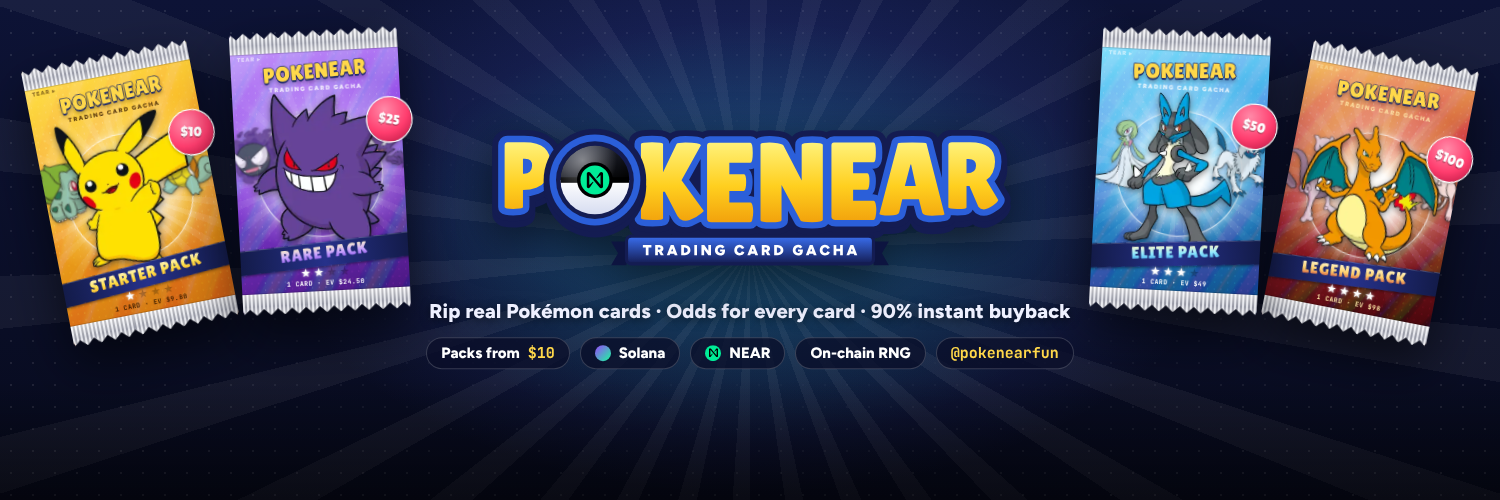
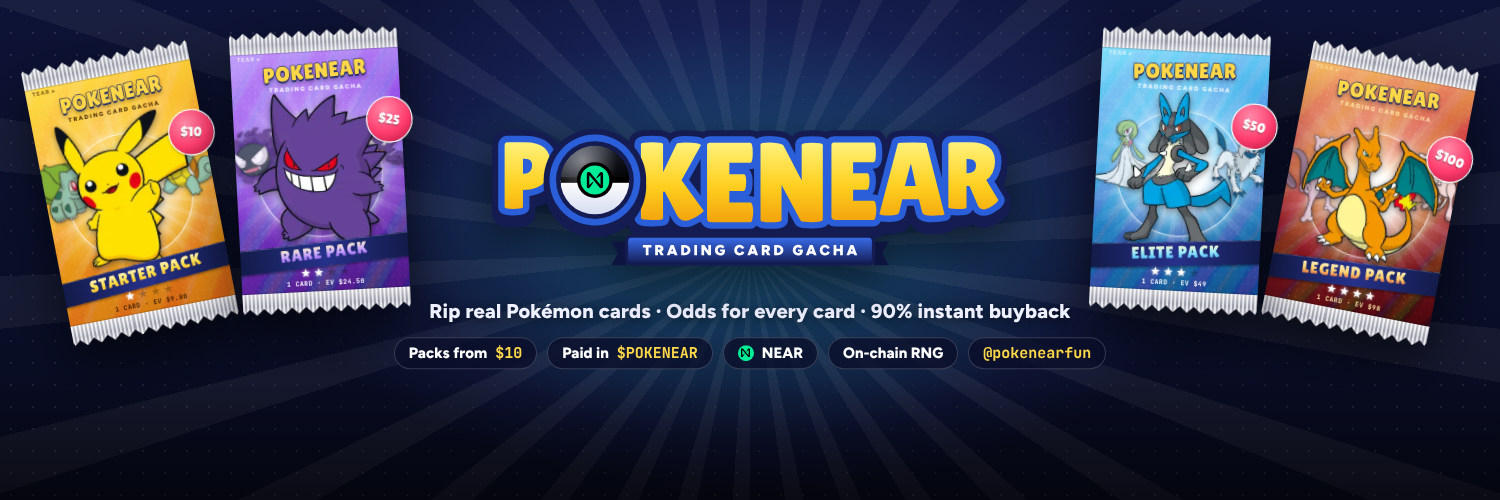
Add X post image; X header shows NEAR and $POKENEAR instead of Solana
Claude-Session: https://claude.ai/code/session_01CKizwNUuLhvCqaYYh9hKp6

Changed region(s): [[0.276, 0.66, 0.736, 0.75]]

diff --git a/assets/brand/x-post.html b/assets/brand/x-post.html
@@ -1,0 +1,85 @@
+<!doctype html>
+<html lang="en">
+<head>
+<meta charset="utf-8">
+<title>Pokenear X post</title>
+<!-- Source for x-post.png (1600x900, 16:9 so X shows it uncropped). Render with: npm run build:x-post -->
+<link rel="stylesheet" href="https://fonts.googleapis.com/css2?family=Figtree:wght@700;800;900&family=JetBrains+Mono:wght@700&family=Lilita+One&display=swap">
+<link rel="stylesheet" href="../../css/style.css">
+<style>
+  html, body { margin: 0; background: #070a1c; }
+  .post { position: relative; width: 1600px; height: 900px; overflow: hidden;
+    background:
+      radial-gradient(600px 420px at 74% 52%, rgba(0, 236, 151, 0.18), transparent 70%),
+      radial-gradient(900px 600px at 70% 45%, rgba(80, 110, 255, 0.38), transparent 70%),
+      linear-gradient(160deg, #0f1640, #070a1c 70%);
+  }
+  .rays { position: absolute; inset: -40%; left: 10%; background: repeating-conic-gradient(from 0deg at 64% 50%, rgba(255, 255, 255, 0.045) 0 4deg, transparent 4deg 12deg); }
+  .dots { position: absolute; inset: 0; background: radial-gradient(rgba(255, 255, 255, 0.09) 1px, transparent 1.3px) 0 0 / 24px 24px; -webkit-mask-image: linear-gradient(90deg, #000, transparent 60%); mask-image: linear-gradient(90deg, #000, transparent 60%); }
+  .copy { position: absolute; left: 90px; top: 0; bottom: 0; width: 720px; display: flex; flex-direction: column; justify-content: center; gap: 30px; z-index: 3; }
+  .copy .logo { width: 520px; margin-left: -10px; filter: drop-shadow(0 12px 20px rgba(0, 0, 0, 0.5)); }
+  h1 { margin: 0; font: 400 74px/1.02 'Lilita One', 'Arial Black', sans-serif; color: #fff; letter-spacing: 0.005em; text-shadow: 0 5px 0 rgba(0, 0, 0, 0.35); }
+  h1 em { font-style: normal; color: #ffd84a; }
+  ul { list-style: none; margin: 0; padding: 0; display: grid; gap: 14px; }
+  li { display: flex; align-items: center; gap: 14px; font: 800 27px/1.2 Figtree, sans-serif; color: #eef0ff; }
+  li i { flex: none; width: 34px; height: 34px; border-radius: 50%; display: grid; place-items: center; background: #ffd84a; color: #1a1300; font: 900 19px/1 Figtree, sans-serif; font-style: normal; }
+  .socials { display: flex; gap: 12px; align-items: center; }
+  .chip { display: inline-flex; align-items: center; gap: 10px; padding: 11px 20px; border-radius: 999px; background: rgba(10, 14, 40, 0.8); border: 1px solid rgba(255, 255, 255, 0.2); font: 800 22px/1 Figtree, sans-serif; color: #fff; }
+  .chip b { color: #ffd84a; font-family: 'JetBrains Mono', monospace; }
+  .chip .chain-dot { width: 22px; height: 22px; margin: 0; }
+  .showcase { position: absolute; right: 40px; top: 0; bottom: 0; width: 760px; } /* no z-index: a stacking context here would isolate the packs color-dodge foil and wash it out */
+  .pack { position: absolute; width: 230px; }
+  .pack .booster { filter: drop-shadow(0 26px 30px rgba(0, 0, 0, 0.6)); }
+  .pack .bw-sheen { display: none; } /* the moving sheen would freeze mid-sweep in a still image */
+  .pk1 { left: 40px; top: 110px; transform: rotate(-12deg); }
+  .pk2 { right: 40px; top: 110px; transform: rotate(12deg); }
+  /* Same fan as the site's landing page, scaled up. */
+  .hand { position: absolute; left: 50%; top: 54%; width: 460px; transform: translate(-50%, -50%) scale(1.32); }
+  .badge { position: absolute; right: 70px; bottom: 70px; z-index: 4; transform: rotate(-6deg); padding: 16px 26px; border-radius: 18px; background: linear-gradient(135deg, #ff4f7b, #c41d5a); color: #fff; font: 400 36px/1 'Lilita One', sans-serif; box-shadow: 0 14px 26px rgba(0, 0, 0, 0.5), inset 0 -4px 0 rgba(0, 0, 0, 0.2); }
+  .badge small { display: block; font: 800 16px/1.3 Figtree, sans-serif; letter-spacing: 0.08em; text-transform: uppercase; opacity: 0.9; }
+</style>
+</head>
+<body>
+<div class="post" id="post">
+  <div class="rays"></div><div class="dots"></div>
+  <div class="copy">
+    <img class="logo" src="pokenear-logo.svg" alt="Pokenear">
+    <h1>Rip real Pokémon cards <em>on NEAR</em></h1>
+    <ul>
+      <li><i>1</i>Packs from $10, paid in $POKENEAR</li>
+      <li><i>2</i>Exact odds for every card</li>
+      <li><i>3</i>On-chain randomness you can verify</li>
+      <li><i>4</i>Sell any pull back for 90%</li>
+    </ul>
+    <div class="socials">
+      <span class="chip"><span class="chain-dot near"></span>NEAR</span>
+      <span class="chip"><b>@pokenearfun</b></span>
+    </div>
+  </div>
+  <div class="showcase">
+    <div class="pack pk1" data-pack="elite"></div>
+    <div class="pack pk2" data-pack="legend"></div>
+    <div class="hand"><div class="fan" id="cards"></div></div>
+  </div>
+  <div class="badge"><small>$POKENEAR</small>Coming soon</div>
+</div>
+<script>window.PN_CONFIG = { remoteImages: false };</script>
+<script src="../../js/cards.js"></script>
+<script src="../../js/auth.js"></script>
+<script src="../../js/sha256.js"></script>
+<script src="../../js/data.js"></script>
+<script src="../../js/engine.js"></script>
+<script src="../../js/store.js"></script>
+<script src="../../js/wallets.js"></script>
+<script src="../../js/app.js"></script>
+<script>
+  // Asset paths in app.js are relative to the site root.
+  var fix = function (h) { return h.replace(/src="assets\//g, 'src="../../assets/'); };
+  document.querySelectorAll('[data-pack]').forEach(function (el) {
+    el.innerHTML = fix(PN.ui.packArtHTML(PN.data.packById[el.getAttribute('data-pack')]));
+  });
+  document.getElementById('cards').innerHTML = ['meg-188', 'mew-199', 'blk-171'].map(function (id) { return fix(PN.ui.cardHTML(PN.data.cardById[id])); }).join('');
+  document.body.setAttribute('data-ready', '1');
+</script>
+</body>
+</html>

diff --git a/scripts/render-x-header.js b/scripts/render-x-header.js
@@ -1,5 +1,7 @@
 'use strict';
-/* Renders assets/brand/x-header.html to assets/brand/x-header.png (1500x500, X/Twitter header).
+/* Renders X images from HTML sources in assets/brand/:
+     node scripts/render-x-header.js          -> x-header.png (1500x500 profile header)
+     node scripts/render-x-header.js post     -> x-post.png   (1600x900 post image)
    Needs Playwright with a Chromium build: npm i -D playwright && npx playwright install chromium */
 const path = require('node:path');
 const http = require('node:http');
@@ -12,6 +14,11 @@ function loadPlaywright() {
 }
 
 const ROOT = path.resolve(__dirname, '..');
+const JOBS = {
+  header: { file: 'x-header', width: 1500, height: 500, el: '#hdr' },
+  post: { file: 'x-post', width: 1600, height: 900, el: '#post' }
+};
+const job = JOBS[process.argv[2] || 'header'];
 const TYPES = { '.html': 'text/html', '.css': 'text/css', '.js': 'text/javascript', '.svg': 'image/svg+xml', '.webp': 'image/webp', '.png': 'image/png' };
 
 (async () => {
@@ -24,13 +31,13 @@ const TYPES = { '.html': 'text/html', '.css': 'text/css', '.js': 'text/javascrip
   await new Promise((r) => server.listen(0, '127.0.0.1', r));
   const { chromium } = loadPlaywright();
   const browser = await chromium.launch();
-  const page = await browser.newPage({ viewport: { width: 1500, height: 500 }, deviceScaleFactor: 1 });
-  await page.goto(`http://127.0.0.1:${server.address().port}/assets/brand/x-header.html`);
+  const page = await browser.newPage({ viewport: { width: job.width, height: job.height }, deviceScaleFactor: 1 });
+  await page.goto(`http://127.0.0.1:${server.address().port}/assets/brand/${job.file}.html`);
   await page.waitForSelector('body[data-ready="1"]');
   await page.evaluate(() => document.fonts.ready);
   await page.waitForTimeout(600);
-  await page.locator('#hdr').screenshot({ path: path.join(ROOT, 'assets/brand/x-header.png'), animations: 'disabled' });
+  await page.locator(job.el).screenshot({ path: path.join(ROOT, `assets/brand/${job.file}.png`), animations: 'disabled' });
   await browser.close();
   server.close();
-  console.log('wrote assets/brand/x-header.png');
+  console.log(`wrote assets/brand/${job.file}.png`);
 })().catch((e) => { console.error(e); process.exit(1); });

diff --git a/assets/brand/x-header.html b/assets/brand/x-header.html
@@ -45,8 +45,8 @@
     <div class="tag">Rip real Pokémon cards · Odds for every card · 90% instant buyback</div>
     <div class="chips">
       <span class="chip">Packs from <b>$10</b></span>
-      <span class="chip"><span class="chain-dot sol"></span>Solana</span>
-      <span class="chip"><span class="chain-dot near"></span>NEAR</span>
+      <span class="chip">Paid in <b>$POKENEAR</b></span>
+            <span class="chip"><span class="chain-dot near"></span>NEAR</span>
       <span class="chip">On-chain RNG</span>
       <span class="chip"><b>@pokenearfun</b></span>
     </div>

diff --git a/README.md b/README.md
@@ -92,8 +92,9 @@ Rebuild generated files with `npm install` then `npm run build:cards` (card data
 | `pokenear-icon.svg` / `.png` | The orb: collector ball with the NEAR symbol in the centre button. Site favicon and topbar icon |
 | `x-profile.png` | 400×400 X profile picture |
 | `x-header.png` | 1500×500 X header (source: `x-header.html`) |
+| `x-post.png` | 1600×900 X post image (source: `x-post.html`) |
 
-Rebuild with `npm run build:brand` (logo, icon, profile) and `npm run build:x-header` (needs Playwright + Chromium).
+Rebuild with `npm run build:brand` (logo, icon, profile) `npm run build:x-header` and `npm run build:x-post` (need Playwright + Chromium).
 
 ## Layout
 
